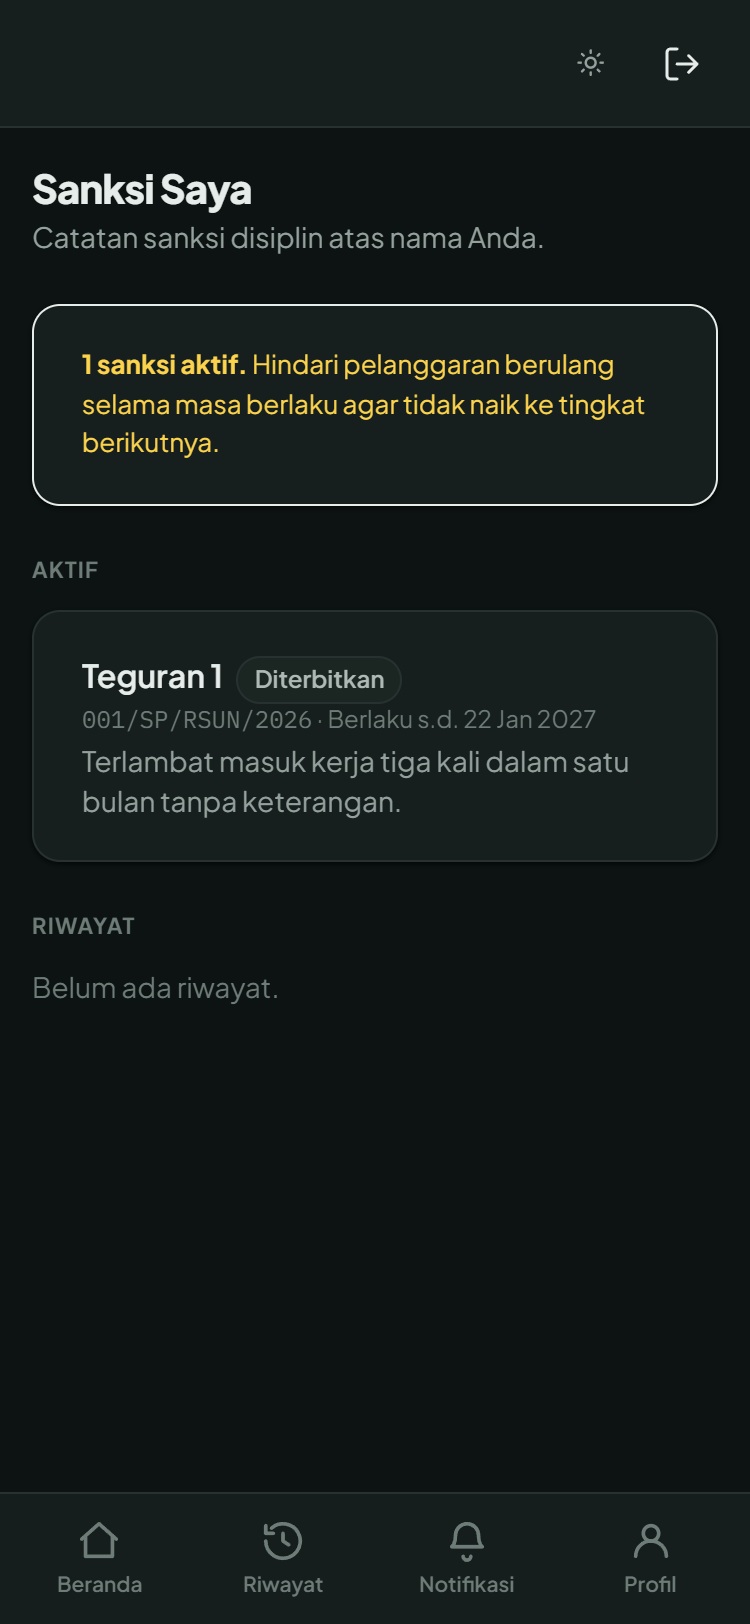
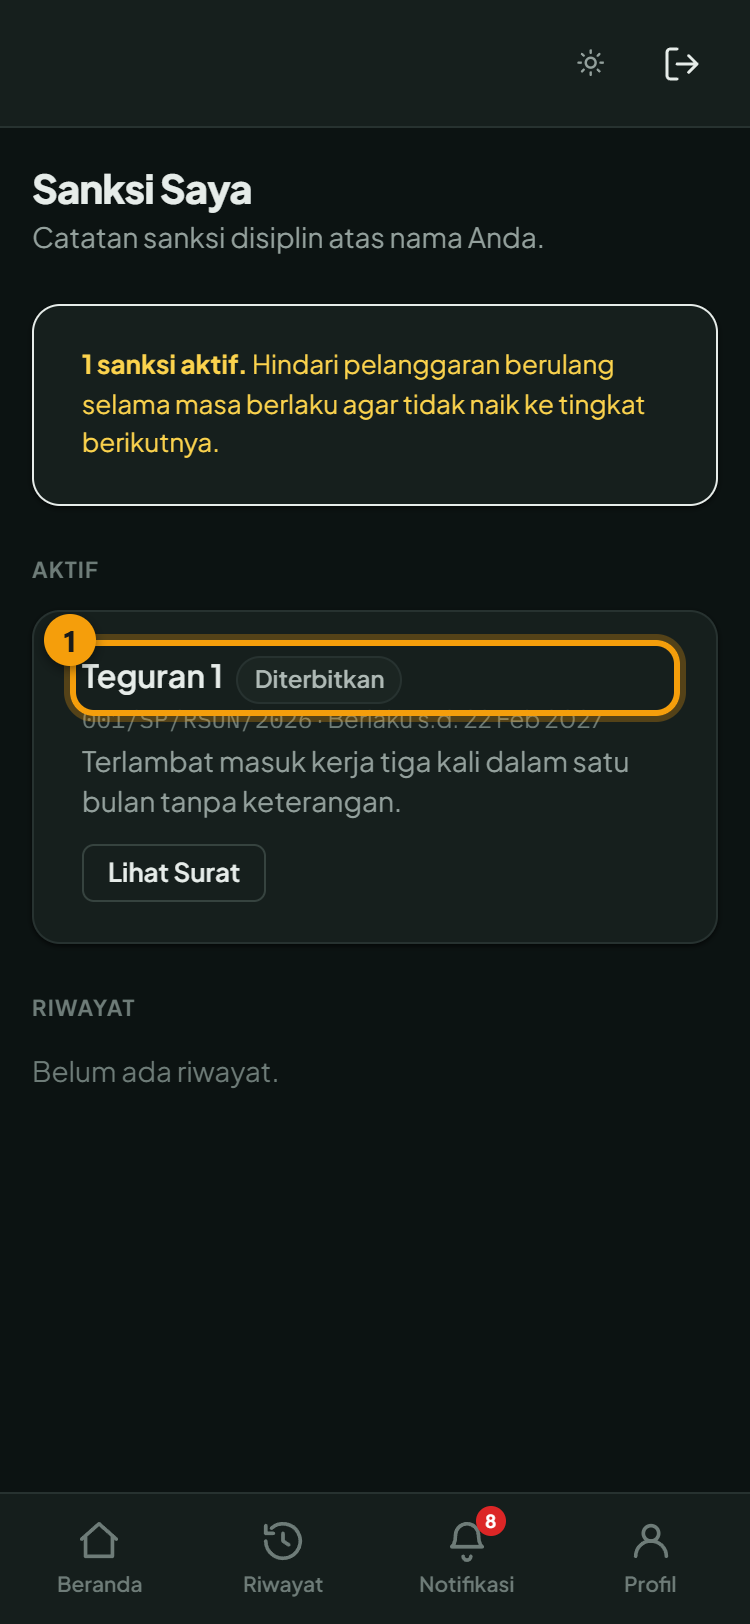
docs(panduan): 44 tangkapan layar beranotasi, penempatan dibetulkan
- Penanda cincin + badge bernomor ditempel ke elemen nyata lewat
  getBoundingClientRect, bukan koordinat tebakan, sehingga tetap pas.
  Nomornya nyambung dengan langkah bernomor di teks.
- Cakupan naik dari 20 jadi 44 gambar: Riwayat, Notifikasi, absen pulang,
  riwayat 7 hari, galat di luar radius, dinas ganda, label pengganti,
  form shift, anggota pola, terapkan pola, sel manual, jatah cuti, detail
  pengajuan, daftar & detail tiket, form & detail aset, lightbox foto,
  menu ekspor, dan keadaan notifikasi aktif.
- Tiga penempatan yang salah dibetulkan: layar absen pindah ke section
  Absen Masuk, daftar aset keluar dari section Menambah Aset, tabel rekap
  pindah dari section Foto ke Arti Tiap Kolom.
- Tema dikunci gelap saat pengambilan; sebelumnya ikut prefers-color-scheme
  OS sehingga hasil antar sesi bisa terang dan gelap bercampur.

Changed region(s): [[0.0613, 0.3695, 0.92, 0.4618], [0.0307, 0.5234, 0.368, 0.6773], [0.6133, 0.9236, 0.6747, 0.9544]]

diff --git a/resources/views/panduan/jadwal-shift.blade.php b/resources/views/panduan/jadwal-shift.blade.php
@@ -25,15 +25,14 @@
             Alasannya sederhana: grid jadwal selebar satu bulan, dan layar HP hanya memuat beberapa tanggal
             sekaligus sehingga Anda harus terus menggeser ke samping — mudah salah kolom.
         </p>
-
-        <x-panduan.gambar src="jadwal-grid-hp.png" caption="Di HP: hanya sekitar 3 tanggal yang muat, sisanya harus digeser" />
-        <x-panduan.gambar src="jadwal-grid-pc.png" lebar="lebar" caption="Di komputer: belasan tanggal terlihat sekaligus, seluruh anggota unit terbaca dalam satu layar" />
-
         <x-panduan.catatan tipe="info">
             Pakailah HP untuk <strong>memeriksa</strong> jadwal yang sudah jadi, dan komputer untuk
             <strong>menyusun</strong> atau memperbaikinya. Isi dan tombolnya sama persis — yang berbeda hanya
             seberapa banyak yang muat di layar.
         </x-panduan.catatan>
+
+        <x-panduan.gambar src="jadwal-grid-hp.png" caption="Di HP: hanya sekitar 3 tanggal yang muat, sisanya harus digeser" />
+        <x-panduan.gambar src="jadwal-grid-pc.png" caption="Di komputer: belasan tanggal terlihat sekaligus, seluruh anggota unit terbaca dalam satu layar" lebar="lebar" />
     </x-panduan.bagian>
 
     <x-panduan.bagian :id="$bagian[1]['id']" :judul="$bagian[1]['judul']">
@@ -74,7 +73,7 @@
             jadwal dan absensi lama yang memakainya tetap utuh.
         </p>
 
-        <x-panduan.gambar src="jadwal-tab-shift.png" caption="Tab Shift Unit — daftar dan form shift" />
+        <x-panduan.gambar src="jadwal-shift-form.png" caption="Form shift: ① kode maksimal 4 huruf dan unik per unit, ② toleransi telat dalam menit" />
     </x-panduan.bagian>
 
     <x-panduan.bagian :id="$bagian[3]['id']" :judul="$bagian[3]['judul']">
@@ -107,7 +106,7 @@
             <span class="kbd">Kode "…" tidak dikenal di unit ini.</span> Buat shift-nya dulu di tab Shift.
         </x-panduan.catatan>
 
-        <x-panduan.gambar src="jadwal-tab-pola.png" caption="Tab Pola — siklus per anggota" />
+        <x-panduan.gambar src="jadwal-tab-pola.png" caption="Tab Pola: ② tanggal jangkar menentukan kolom pertama siklus" />
     </x-panduan.bagian>
 
     <x-panduan.bagian :id="$bagian[4]['id']" :judul="$bagian[4]['judul']">
@@ -136,6 +135,8 @@
             Menghapus pola hanya membuang cetakannya. <strong>Jadwal bulanan yang sudah terbentuk tidak ikut terhapus</strong>,
             karena itu sudah menjadi data nyata yang dipakai absensi.
         </p>
+
+        <x-panduan.gambar src="jadwal-anggota.png" caption="① Kotak pencarian untuk menambahkan anggota ke pola" />
     </x-panduan.bagian>
 
     <x-panduan.bagian :id="$bagian[5]['id']" :judul="$bagian[5]['judul']">
@@ -159,6 +160,8 @@
         <p class="text-[14px] leading-relaxed mt-4">
             Anggota pola lain, dan karyawan yang tidak masuk pola mana pun, tidak tersentuh.
         </p>
+
+        <x-panduan.gambar src="jadwal-terapkan.png" caption="① Tombol terapkan mengisi seluruh bulan untuk anggota pola itu" lebar="lebar" />
     </x-panduan.bagian>
 
     <x-panduan.bagian :id="$bagian[6]['id']" :judul="$bagian[6]['judul']">
@@ -187,6 +190,8 @@
             <a href="{{ route('panduan.bab', 'pengganti') }}" class="hover:underline" style="color:var(--brand-600)">Pengganti Jadwal</a>.
         </p>
 
+
+        <x-panduan.gambar src="jadwal-sel-manual.png" caption="① Satu sel diisi dua kode dipisah koma — itulah cara menulis dinas ganda" lebar="lebar" />
     </x-panduan.bagian>
 
     <div class="divider my-6"></div>

diff --git a/resources/views/panduan/absensi.blade.php b/resources/views/panduan/absensi.blade.php
@@ -36,8 +36,6 @@
             dan ketelitian GPS cukup baik. Selama salah satu belum terpenuhi, tombol sengaja dimatikan
             supaya Anda tidak mengira sudah absen padahal belum.
         </x-panduan.catatan>
-
-        <x-panduan.gambar src="absensi-swipe.png" caption="Layar absen: chip shift hari ini, bingkai wajah, keterangan lokasi, lalu tombol absen" />
     </x-panduan.bagian>
 
     <x-panduan.bagian :id="$bagian[1]['id']" :judul="$bagian[1]['judul']">
@@ -59,6 +57,8 @@
             Peta memerlukan internet untuk menggambar petanya. Kalau peta gagal tampil, pemeriksaan radius
             tetap berjalan normal — absen Anda tidak terganggu.
         </p>
+
+        <x-panduan.gambar src="absensi-masuk.png" caption="Layar absen: ① shift hari ini, ② status wajah, ③ status lokasi, ④ tombol absen" />
     </x-panduan.bagian>
 
     <x-panduan.bagian :id="$bagian[2]['id']" :judul="$bagian[2]['judul']">
@@ -87,6 +87,8 @@
             Di bawah peta ada <strong>Riwayat 7 Hari</strong> — sekilas jam masuk, jam pulang, dan status
             absen Anda sepekan terakhir.
         </p>
+
+        <x-panduan.gambar src="absensi-pulang.png" caption="Saat sesi masih terbuka, ① tombol otomatis berubah menjadi Absen Pulang dan ② chip shift menandai sesi berjalan" />
     </x-panduan.bagian>
 
     <x-panduan.bagian :id="$bagian[3]['id']" :judul="$bagian[3]['judul']">
@@ -125,6 +127,8 @@
             Lama telat dan pulang cepat ditampilkan sebagai <span class="kbd">2j 15m</span>, <span class="kbd">1j</span>,
             atau <span class="kbd">45m</span>.
         </p>
+
+        <x-panduan.gambar src="absensi-riwayat7.png" caption="Riwayat 7 Hari di bawah peta: ① jam masuk, jam pulang, dan status tiap hari" />
     </x-panduan.bagian>
 
     <x-panduan.bagian :id="$bagian[4]['id']" :judul="$bagian[4]['judul']">
@@ -164,6 +168,8 @@
             Kalau Anda benar-benar tidak bisa absen karena kendala teknis, laporkan ke atasan langsung dan
             bagian kepegawaian pada hari itu juga, jangan menunggu akhir bulan.
         </x-panduan.catatan>
+
+        <x-panduan.gambar src="absensi-galat-radius.png" caption="Di luar area: ① keterangan lokasi berubah merah, ② tombol absen mati" />
     </x-panduan.bagian>
 
     <div class="divider my-6"></div>

diff --git a/resources/views/panduan/dasar.blade.php b/resources/views/panduan/dasar.blade.php
@@ -35,7 +35,7 @@
             menciutkan sidebar agar layar lebih lega; pilihan itu diingat untuk kunjungan berikutnya.
         </p>
 
-        <x-panduan.gambar src="dasar-bilah-bawah.png" caption="Bilah bawah: Beranda, Riwayat, Notifikasi, Profil" />
+        <x-panduan.gambar src="dasar-bilah-bawah.png" caption="Bilah bawah di HP: ① Beranda, ② Riwayat, ③ Notifikasi, ④ Profil" />
     </x-panduan.bagian>
 
     <x-panduan.bagian :id="$bagian[1]['id']" :judul="$bagian[1]['judul']">
@@ -64,7 +64,7 @@
             </table>
         </div>
 
-        <x-panduan.gambar src="dasar-beranda.png" caption="Beranda di HP: kartu absensi, jatah cuti, dan pintasan menu" />
+        <x-panduan.gambar src="dasar-beranda.png" caption="Beranda: ① kartu Absensi Hari Ini, ② kartu Jatah Cuti" />
     </x-panduan.bagian>
 
     <x-panduan.bagian :id="$bagian[2]['id']" :judul="$bagian[2]['judul']">
@@ -83,6 +83,8 @@
             untuk menampilkan semuanya kembali. Tiap baris bisa ditekan untuk membuka detailnya.
             Daftar dipecah 20 baris per halaman.
         </p>
+
+        <x-panduan.gambar src="dasar-riwayat.png" caption="Riwayat: ① tombol saring per jenis aktivitas" />
     </x-panduan.bagian>
 
     <x-panduan.bagian :id="$bagian[3]['id']" :judul="$bagian[3]['judul']">
@@ -100,6 +102,8 @@
             Yang membedakan: tanpa notifikasi HP, Anda baru tahu saat membuka aplikasi. Cara mengaktifkannya ada di bab
             <a href="{{ route('panduan.bab', 'instalasi') }}" class="hover:underline" style="color:var(--brand-600)">Memasang Aplikasi di HP</a>.
         </p>
+
+        <x-panduan.gambar src="dasar-notifikasi.png" caption="Notifikasi: ② tombol tandai semua dibaca; angka merah menunjukkan yang belum dibaca" />
     </x-panduan.bagian>
 
     <x-panduan.bagian :id="$bagian[4]['id']" :judul="$bagian[4]['judul']">
@@ -116,7 +120,7 @@
             Tombol matahari/bulan di bagian atas layar mengganti tampilan terang ↔ gelap. Pilihan itu diingat.
         </p>
 
-        <x-panduan.gambar src="dasar-profil.png" caption="Halaman Profil" />
+        <x-panduan.gambar src="dasar-profil.png" caption="Profil: ② kontak yang boleh Anda ubah sendiri" />
     </x-panduan.bagian>
 
     <div class="divider my-6"></div>

diff --git a/resources/views/panduan/cuti.blade.php b/resources/views/panduan/cuti.blade.php
@@ -23,6 +23,8 @@
             <li>Periode jatah mengikuti <strong>siklus kontrak Anda</strong>, bukan tanggal 1 Januari.</li>
             <li>Pengajuan yang masih berjalan sudah <strong>menahan</strong> jatah walau belum disetujui — supaya Anda tidak mengajukan melebihi hak dua kali.</li>
         </ul>
+
+        <x-panduan.gambar src="cuti-jatah.png" caption="Halaman Cuti: ① sisa jatah, beserta rincian jatah, terpakai, dan yang masih berjalan" />
     </x-panduan.bagian>
 
     <x-panduan.bagian :id="$bagian[1]['id']" :judul="$bagian[1]['judul']">
@@ -65,7 +67,7 @@
             </div>
         </div>
 
-        <x-panduan.gambar src="cuti-ajukan.png" caption="Form pengajuan cuti" />
+        <x-panduan.gambar src="cuti-ajukan.png" caption="Form pengajuan: ① tanggal mulai, ② jumlah hari yang benar-benar diambil, ③ alasan" />
     </x-panduan.bagian>
 
     <x-panduan.bagian :id="$bagian[2]['id']" :judul="$bagian[2]['judul']">
@@ -86,6 +88,8 @@
             Buka satu pengajuan untuk melihat riwayat tiap tahap: siapa penyetujunya, kapan, dan catatannya.
             Perubahan status juga masuk ke Notifikasi dan Riwayat Anda.
         </p>
+
+        <x-panduan.gambar src="cuti-detail.png" caption="Detail pengajuan: ① status berjalan, di bawahnya riwayat tiap tahap penyetuju" />
     </x-panduan.bagian>
 
     <x-panduan.bagian :id="$bagian[3]['id']" :judul="$bagian[3]['judul']">
@@ -119,7 +123,7 @@
             <li><span class="kbd">Jatah tak cukup: sisa … hari, diminta … hari.</span> — jatah pemohon berubah sejak pengajuan dibuat; diperiksa ulang di tahap akhir.</li>
         </ul>
 
-        <x-panduan.gambar src="cuti-persetujuan.png" caption="Persetujuan Cuti — hanya pengajuan yang menunggu giliran Anda" />
+        <x-panduan.gambar src="cuti-persetujuan.png" caption="Setelah menekan Tinjau: ① tombol Setujui, ② tombol Tolak yang wajib disertai catatan" />
     </x-panduan.bagian>
 
     <x-panduan.bagian :id="$bagian[5]['id']" :judul="$bagian[5]['judul']">

diff --git a/resources/views/panduan/laporan-absensi.blade.php b/resources/views/panduan/laporan-absensi.blade.php
@@ -49,6 +49,8 @@
         <p class="text-[14px] leading-relaxed mt-2">
             Di bagian atas ada ringkasan jumlah: total kehadiran, telat, pulang cepat, dan anomali.
         </p>
+
+        <x-panduan.gambar src="laporan-hp.png" caption="Tampilan HP: ① rentang tanggal, ② penyaring unit dan status" />
     </x-panduan.bagian>
 
     <x-panduan.bagian :id="$bagian[2]['id']" :judul="$bagian[2]['judul']">
@@ -73,6 +75,8 @@
             <a href="{{ route('panduan.bab', 'absensi') }}" class="hover:underline" style="color:var(--brand-600)">Absen Masuk &amp; Pulang</a>.
         </p>
 
+
+        <x-panduan.gambar src="laporan-absensi-pc.png" caption="Tabel rekap di komputer: ① baris yang telat ditandai kuning berikut lamanya" lebar="lebar" />
     </x-panduan.bagian>
 
     <x-panduan.bagian :id="$bagian[3]['id']" :judul="$bagian[3]['judul']">
@@ -93,7 +97,7 @@
             atau sempat gagal, aplikasi mencobanya lagi sendiri — tunggu sebentar sebelum memuat ulang halaman.
         </p>
 
-        <x-panduan.gambar src="laporan-absensi-pc.png" caption="Laporan absensi di layar PC — kolom Foto ada di ujung kanan" lebar="lebar" />
+        <x-panduan.gambar src="laporan-foto.png" caption="Foto absen dibuka besar setelah gambar kecilnya ditekan" lebar="lebar" />
     </x-panduan.bagian>
 
     <x-panduan.bagian :id="$bagian[4]['id']" :judul="$bagian[4]['judul']">
@@ -107,6 +111,8 @@
             Di Excel, lama telat, pulang cepat, dan jam kerja ditulis sebagai <strong>angka menit</strong>,
             bukan “2j 15m”. Itu disengaja supaya kolomnya bisa dijumlah dan dirata-rata langsung.
         </x-panduan.catatan>
+
+        <x-panduan.gambar src="laporan-ekspor.png" caption="Menu unduhan: ① pilihan Per Unit memecah hasil menjadi satu bagian per unit" lebar="lebar" />
     </x-panduan.bagian>
 
     <div class="divider my-6"></div>

diff --git a/resources/views/panduan/jadwal-saya.blade.php b/resources/views/panduan/jadwal-saya.blade.php
@@ -28,7 +28,7 @@
             hanya saja statusnya <strong>Tercatat</strong>, tanpa penilaian telat atau pulang cepat.
         </x-panduan.catatan>
 
-        <x-panduan.gambar src="jadwal-saya.png" caption="Jadwal Saya — shift satu bulan" />
+        <x-panduan.gambar src="jadwal-saya.png" caption="Jadwal Saya: ① tombol pindah bulan, ② satu hari berisi nama shift dan jamnya" />
     </x-panduan.bagian>
 
     <x-panduan.bagian :id="$bagian[1]['id']" :judul="$bagian[1]['judul']">
@@ -41,6 +41,8 @@
             Absen Masuk, aplikasi memilih shift yang jam mulainya paling dekat dengan waktu Anda absen
             <em>dan</em> belum dipakai hari itu — jadi shift kedua tidak akan tertukar dengan yang pertama.
         </p>
+
+        <x-panduan.gambar src="jadwal-saya-ganda.png" caption="① Satu tanggal dengan dua shift — wajib absen masuk dan pulang untuk masing-masing" />
     </x-panduan.bagian>
 
     <x-panduan.bagian :id="$bagian[2]['id']" :judul="$bagian[2]['judul']">
@@ -65,6 +67,8 @@
             Detail penugasan pengganti dibahas di bab
             <a href="{{ route('panduan.bab', 'pengganti') }}" class="hover:underline" style="color:var(--brand-600)">Pengganti Jadwal</a>.
         </p>
+
+        <x-panduan.gambar src="jadwal-saya-pengganti.png" caption="① Keterangan bahwa shift itu menggantikan rekan yang sedang cuti" />
     </x-panduan.bagian>
 
     <x-panduan.bagian :id="$bagian[3]['id']" :judul="$bagian[3]['judul']">

diff --git a/resources/views/panduan/tiket.blade.php b/resources/views/panduan/tiket.blade.php
@@ -37,7 +37,7 @@
             foto kerusakan sangat membantu. Format JPG, PNG, WEBP, atau PDF, maksimal 8 MB per berkas.
         </p>
 
-        <x-panduan.gambar src="tiket-buat.png" caption="Form pembuatan tiket" />
+        <x-panduan.gambar src="tiket-buat.png" caption="Form pembuatan tiket: pilih tim tujuan, prioritas, judul, dan uraian kerusakan" />
     </x-panduan.bagian>
 
     <x-panduan.bagian :id="$bagian[1]['id']" :judul="$bagian[1]['judul']">
@@ -56,6 +56,8 @@
             Kartu <strong>Tiket Saya</strong> di Beranda menampilkan jumlah tiket yang Anda laporkan.
             Perkembangannya juga tercatat di <strong>Riwayat</strong> Anda.
         </p>
+
+        <x-panduan.gambar src="tiket-daftar.png" caption="Daftar tiket: ① badge status menunjukkan tiket sedang dikerjakan" />
     </x-panduan.bagian>
 
     <x-panduan.bagian :id="$bagian[2]['id']" :judul="$bagian[2]['judul']">
@@ -81,6 +83,8 @@
             <li>Menautkan tiket ke <strong>aset inventaris</strong>, sehingga riwayat kerusakan aset itu terkumpul.</li>
             <li>Langsung membuat tiket berstatus Diproses atau Selesai, untuk pekerjaan yang sudah telanjur dikerjakan.</li>
         </ul>
+
+        <x-panduan.gambar src="tiket-detail.png" caption="Detail tiket berisi uraian, lampiran, dan tombol penanganan" />
     </x-panduan.bagian>
 
     <x-panduan.bagian :id="$bagian[3]['id']" :judul="$bagian[3]['judul']">

diff --git a/resources/views/panduan/pengganti.blade.php b/resources/views/panduan/pengganti.blade.php
@@ -40,6 +40,8 @@
             Baris pengganti punya dua status: <strong>Aktif</strong> (sudah berlaku) dan
             <strong>Menunggu Acc</strong> (usulan yang belum disetujui koordinator).
         </p>
+
+        <x-panduan.gambar src="pengganti-lowongan.png" caption="Daftar lowongan: ① jenisnya — pengganti cuti atau mengisi jadwal kosong" />
     </x-panduan.bagian>
 
     <x-panduan.bagian :id="$bagian[1]['id']" :judul="$bagian[1]['judul']">
@@ -60,7 +62,7 @@
             rencana. Untuk lowongan karena karyawan nonaktif, jadwalnya langsung terbentuk.
         </p>
 
-        <x-panduan.gambar src="pengganti.png" caption="Layar Pengganti Jadwal" />
+        <x-panduan.gambar src="pengganti-tunjuk.png" caption="Pengganti dipilih dari layar peninjauan cuti, sebelum pengajuannya disetujui" />
     </x-panduan.bagian>
 
     <x-panduan.bagian :id="$bagian[2]['id']" :judul="$bagian[2]['judul']">
@@ -82,6 +84,8 @@
             Yang boleh mengalihkan hanya <strong>koordinator unit pemohon</strong>. Yang lain akan mendapat pesan
             <span class="kbd">Hanya koordinator unit pemohon yang boleh mengalihkan.</span>
         </p>
+
+        <x-panduan.gambar src="pengganti-alih.png" caption="① Tanggal mulai peralihan — pengganti lama tetap memegang hari sebelumnya" />
     </x-panduan.bagian>
 
     <x-panduan.bagian :id="$bagian[3]['id']" :judul="$bagian[3]['judul']">

diff --git a/resources/views/panduan/masuk.blade.php b/resources/views/panduan/masuk.blade.php
@@ -41,7 +41,7 @@
             Selama belum, masuklah dengan Google.
         </x-panduan.catatan>
 
-        <x-panduan.gambar src="masuk-login.png" caption="Halaman masuk di HP" />
+        <x-panduan.gambar src="masuk-login.png" caption="Halaman masuk: ① masuk dengan Google, ② kolom NIP, ③ tombol Masuk dengan NIP" />
     </x-panduan.bagian>
 
     <x-panduan.bagian :id="$bagian[1]['id']" :judul="$bagian[1]['judul']">
@@ -70,7 +70,7 @@
             atas nama orang yang salah.
         </x-panduan.catatan>
 
-        <x-panduan.gambar src="masuk-klaim.png" caption="Halaman klaim akun: ketik nama, NIP, atau NIK, lalu tekan Pilih" />
+        <x-panduan.gambar src="masuk-klaim.png" caption="Klaim akun: ① ketik nama, NIP, atau NIK — ② tekan Pilih pada baris nama Anda" />
     </x-panduan.bagian>
 
     <x-panduan.bagian :id="$bagian[2]['id']" :judul="$bagian[2]['judul']">
@@ -97,6 +97,8 @@
             hanya jika akun Anda memang belum punya kata sandi. Kalau sudah punya dan benar-benar lupa,
             hubungi Admin Sistem.
         </x-panduan.catatan>
+
+        <x-panduan.gambar src="masuk-sandi.png" caption="Bagian kata sandi di Profil: ① kata sandi lama, ② kata sandi baru, ③ tombol simpan" />
     </x-panduan.bagian>
 
     <x-panduan.bagian :id="$bagian[3]['id']" :judul="$bagian[3]['judul']">

diff --git a/resources/views/panduan/inventaris.blade.php b/resources/views/panduan/inventaris.blade.php
@@ -22,6 +22,8 @@
             <strong>IT</strong>, <strong>Teknisi</strong> (Sarana), atau <strong>ATEM</strong>,
             serta Admin Sistem. Karyawan lain tidak melihatnya.
         </p>
+
+        <x-panduan.gambar src="inventaris-daftar.png" caption="Daftar aset yang terlihat oleh tim teknis" />
     </x-panduan.bagian>
 
     <x-panduan.bagian :id="$bagian[1]['id']" :judul="$bagian[1]['judul']">
@@ -56,7 +58,7 @@
             </table>
         </div>
 
-        <x-panduan.gambar src="inventaris-daftar.png" caption="Daftar aset inventaris" />
+        <x-panduan.gambar src="inventaris-form.png" caption="Form aset: ① kode wajib unik, ② kategori menentukan tim pemilik, ③ status kondisi" />
     </x-panduan.bagian>
 
     <x-panduan.bagian :id="$bagian[3]['id']" :judul="$bagian[3]['judul']">
@@ -85,6 +87,8 @@
             Unggah berkas pendukung seperti faktur, garansi, atau sertifikat kalibrasi, lengkap dengan
             tanggal dan masa berlakunya.
         </p>
+
+        <x-panduan.gambar src="inventaris-detail.png" caption="Detail aset: mutasi antar unit, jadwal pemeliharaan, dan lampiran berkas" />
     </x-panduan.bagian>
 
     <x-panduan.bagian :id="$bagian[4]['id']" :judul="$bagian[4]['judul']">

diff --git a/resources/views/panduan/disiplin.blade.php b/resources/views/panduan/disiplin.blade.php
@@ -32,7 +32,7 @@
             Setelah SP 3 tidak naik lagi. Bila tidak ada sanksi aktif, saran dimulai dari Teguran 1.
         </x-panduan.catatan>
 
-        <x-panduan.gambar src="disiplin-sanksi-saya.png" caption="Sanksi Saya — sanksi atas nama sendiri" />
+        <x-panduan.gambar src="disiplin-sanksi-saya.png" caption="Sanksi Saya: ① tingkat sanksi beserta masa berlakunya" />
     </x-panduan.bagian>
 
     <x-panduan.bagian :id="$bagian[1]['id']" :judul="$bagian[1]['judul']">
@@ -55,7 +55,7 @@
             <li><span class="kbd">Belum ada pemegang peran HRD/Direktur, usulan tak punya penyetuju. Hubungi Admin Sistem.</span> — usulan tak bisa dikirim karena rantai persetujuannya belum lengkap. Hubungi Admin Sistem.</li>
         </ul>
 
-        <x-panduan.gambar src="disiplin-usul.png" caption="Form usulan sanksi" />
+        <x-panduan.gambar src="disiplin-usul.png" caption="Form usulan: ② tingkat sanksi (sudah disarankan sistem), ③ uraian pelanggaran" />
     </x-panduan.bagian>
 
     <x-panduan.bagian :id="$bagian[2]['id']" :judul="$bagian[2]['judul']">

diff --git a/resources/views/panduan/instalasi.blade.php b/resources/views/panduan/instalasi.blade.php
@@ -62,6 +62,8 @@
 
         {{-- SS: menu Instal aplikasi di Chrome Android --}}
         {{-- SS: ikon NirwanaHRIS di layar utama Android --}}
+
+        <x-panduan.gambar src="instalasi-pasang.png" caption="Tombol Pasang Aplikasi di halaman Profil — muncul bila Chrome menawarkan pemasangan" />
     </x-panduan.bagian>
 
     <x-panduan.bagian :id="$bagian[2]['id']" :judul="$bagian[2]['judul']">
@@ -104,7 +106,8 @@
             <li>Pemberitahuan sanksi dan tiket, sesuai peran Anda.</li>
         </ul>
 
-        <x-panduan.gambar src="instalasi-notifikasi.png" caption="Tombol Pasang Aplikasi dan Aktifkan Notifikasi di halaman Profil" />
+        <x-panduan.gambar src="instalasi-notifikasi.png" caption="Tombol Aktifkan Notifikasi di halaman Profil" />
+        <x-panduan.gambar src="instalasi-notif-aktif.png" caption="Setelah izin diberikan, tombol berubah menjadi Notifikasi Aktif dan tidak bisa ditekan lagi" />
     </x-panduan.bagian>
 
     <x-panduan.bagian :id="$bagian[4]['id']" :judul="$bagian[4]['judul']">
